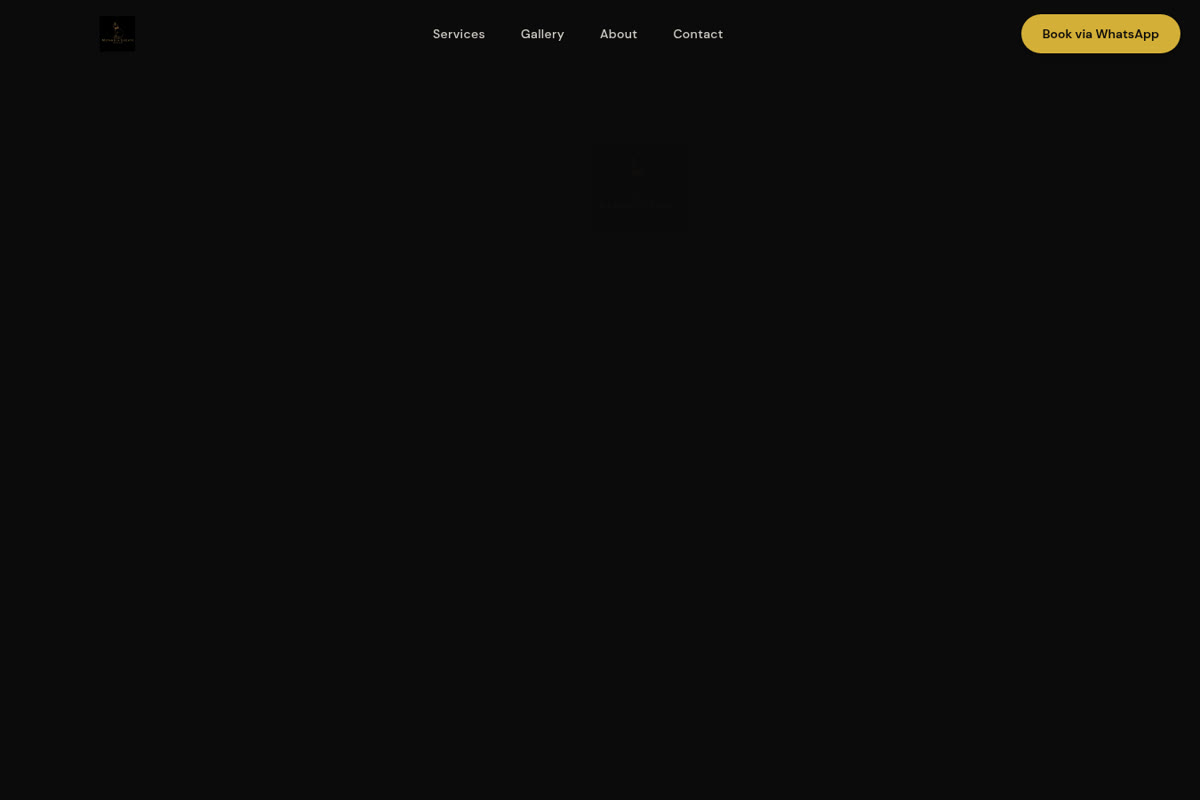
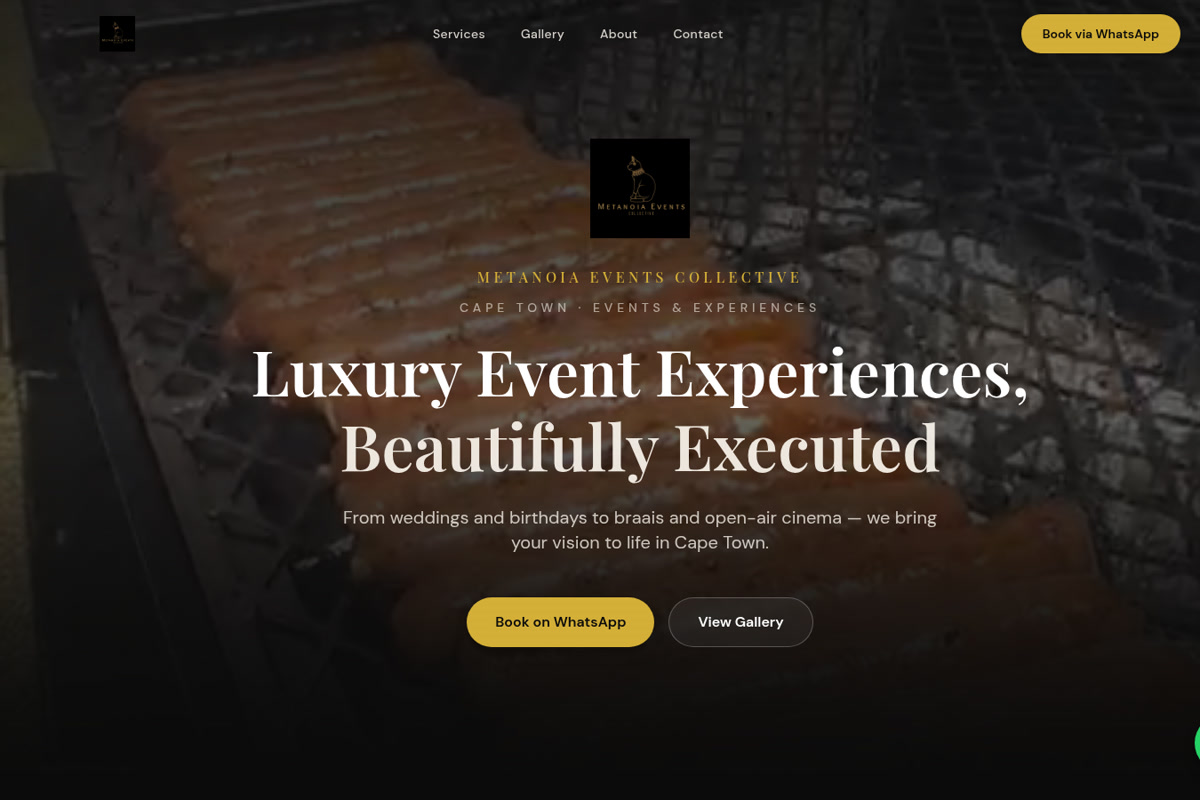
Use public catalogue and braai-hero shots for cards 4 and 5.
Savoury Lab now shows the live catalogue with product photos, ZAR prices, and WhatsApp order. Metanoia uses the public homepage braai hero. WorkOps stays copy-only.

diff --git a/lib/content/case-studies.ts b/lib/content/case-studies.ts
@@ -93,15 +93,15 @@ export const caseStudies: CaseStudy[] = [
     href: "https://the-savoury-lab.vercel.app",
     image: {
       src: "/images/case-studies/the-savoury-lab.jpg",
-      alt: "The Savoury Lab public homepage",
+      alt: "The Savoury Lab public catalogue",
     },
     theme: {
-      background: "#111111",
-      foreground: "#f4f1ea",
-      muted: "#c4c0b6",
+      background: "#ffffff",
+      foreground: "#111111",
+      muted: "#6b6b6b",
       accent: "#c79a52",
-      border: "#2a2a2a",
-      panel: "#1a1a1a",
+      border: "#e8e8e8",
+      panel: "#f4f4f4",
     },
   },
   {
